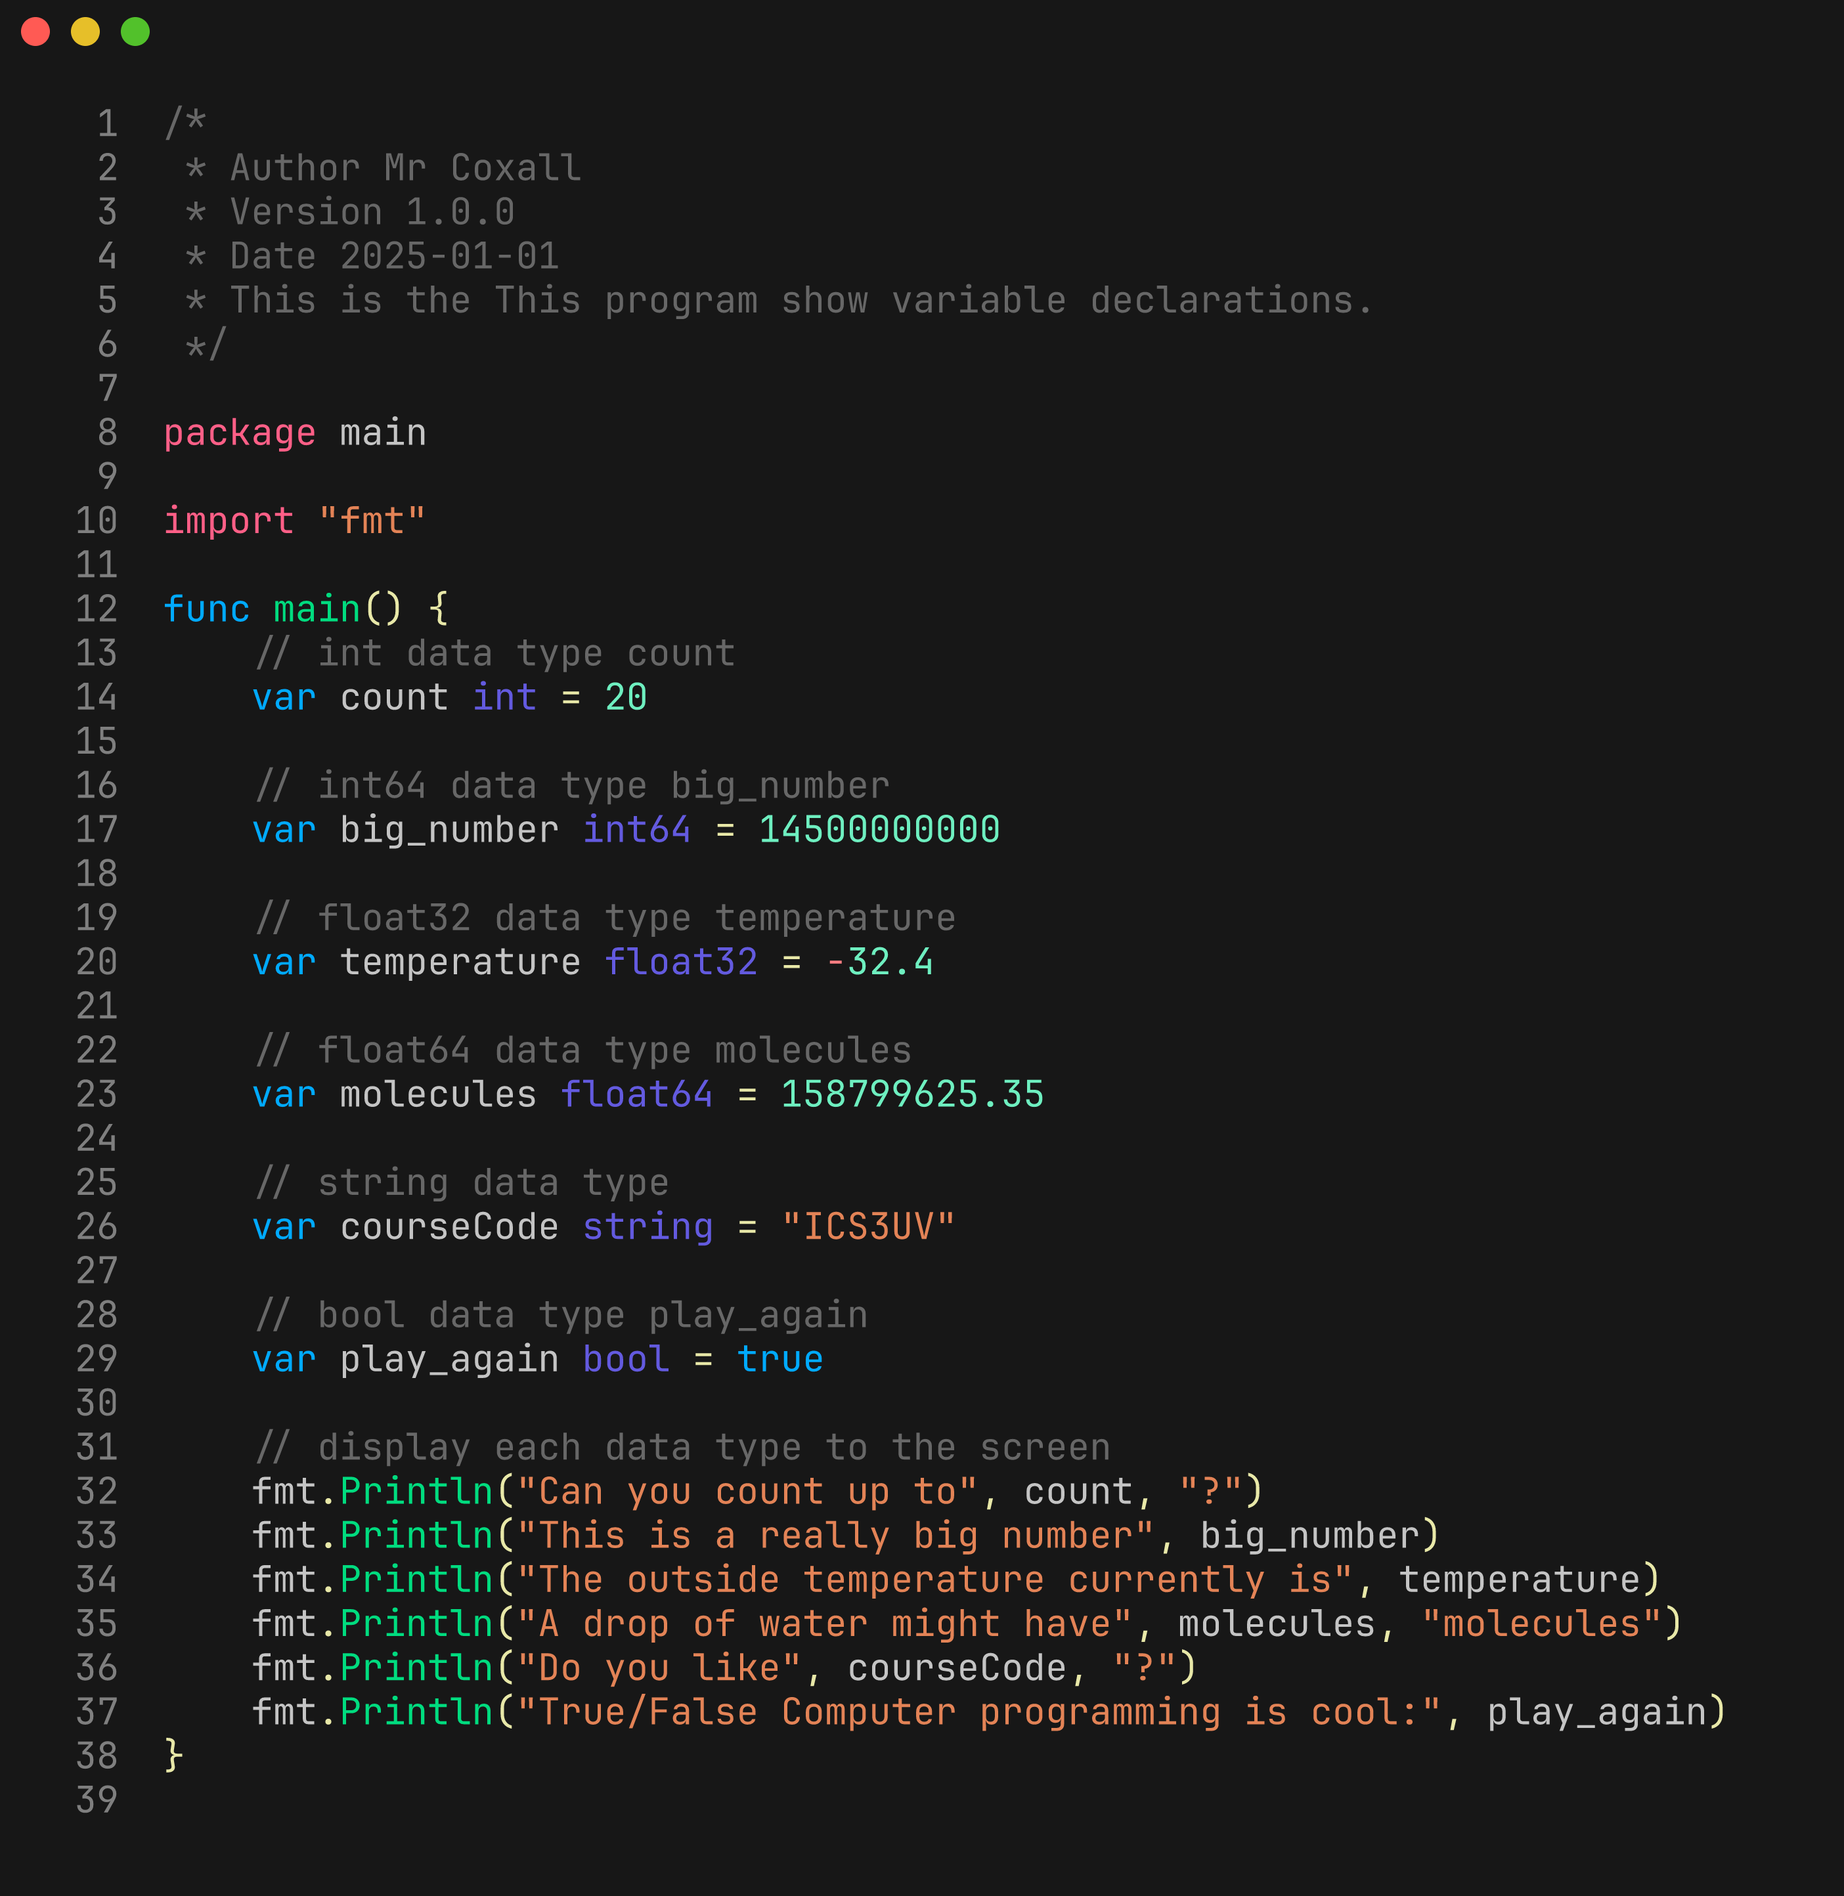
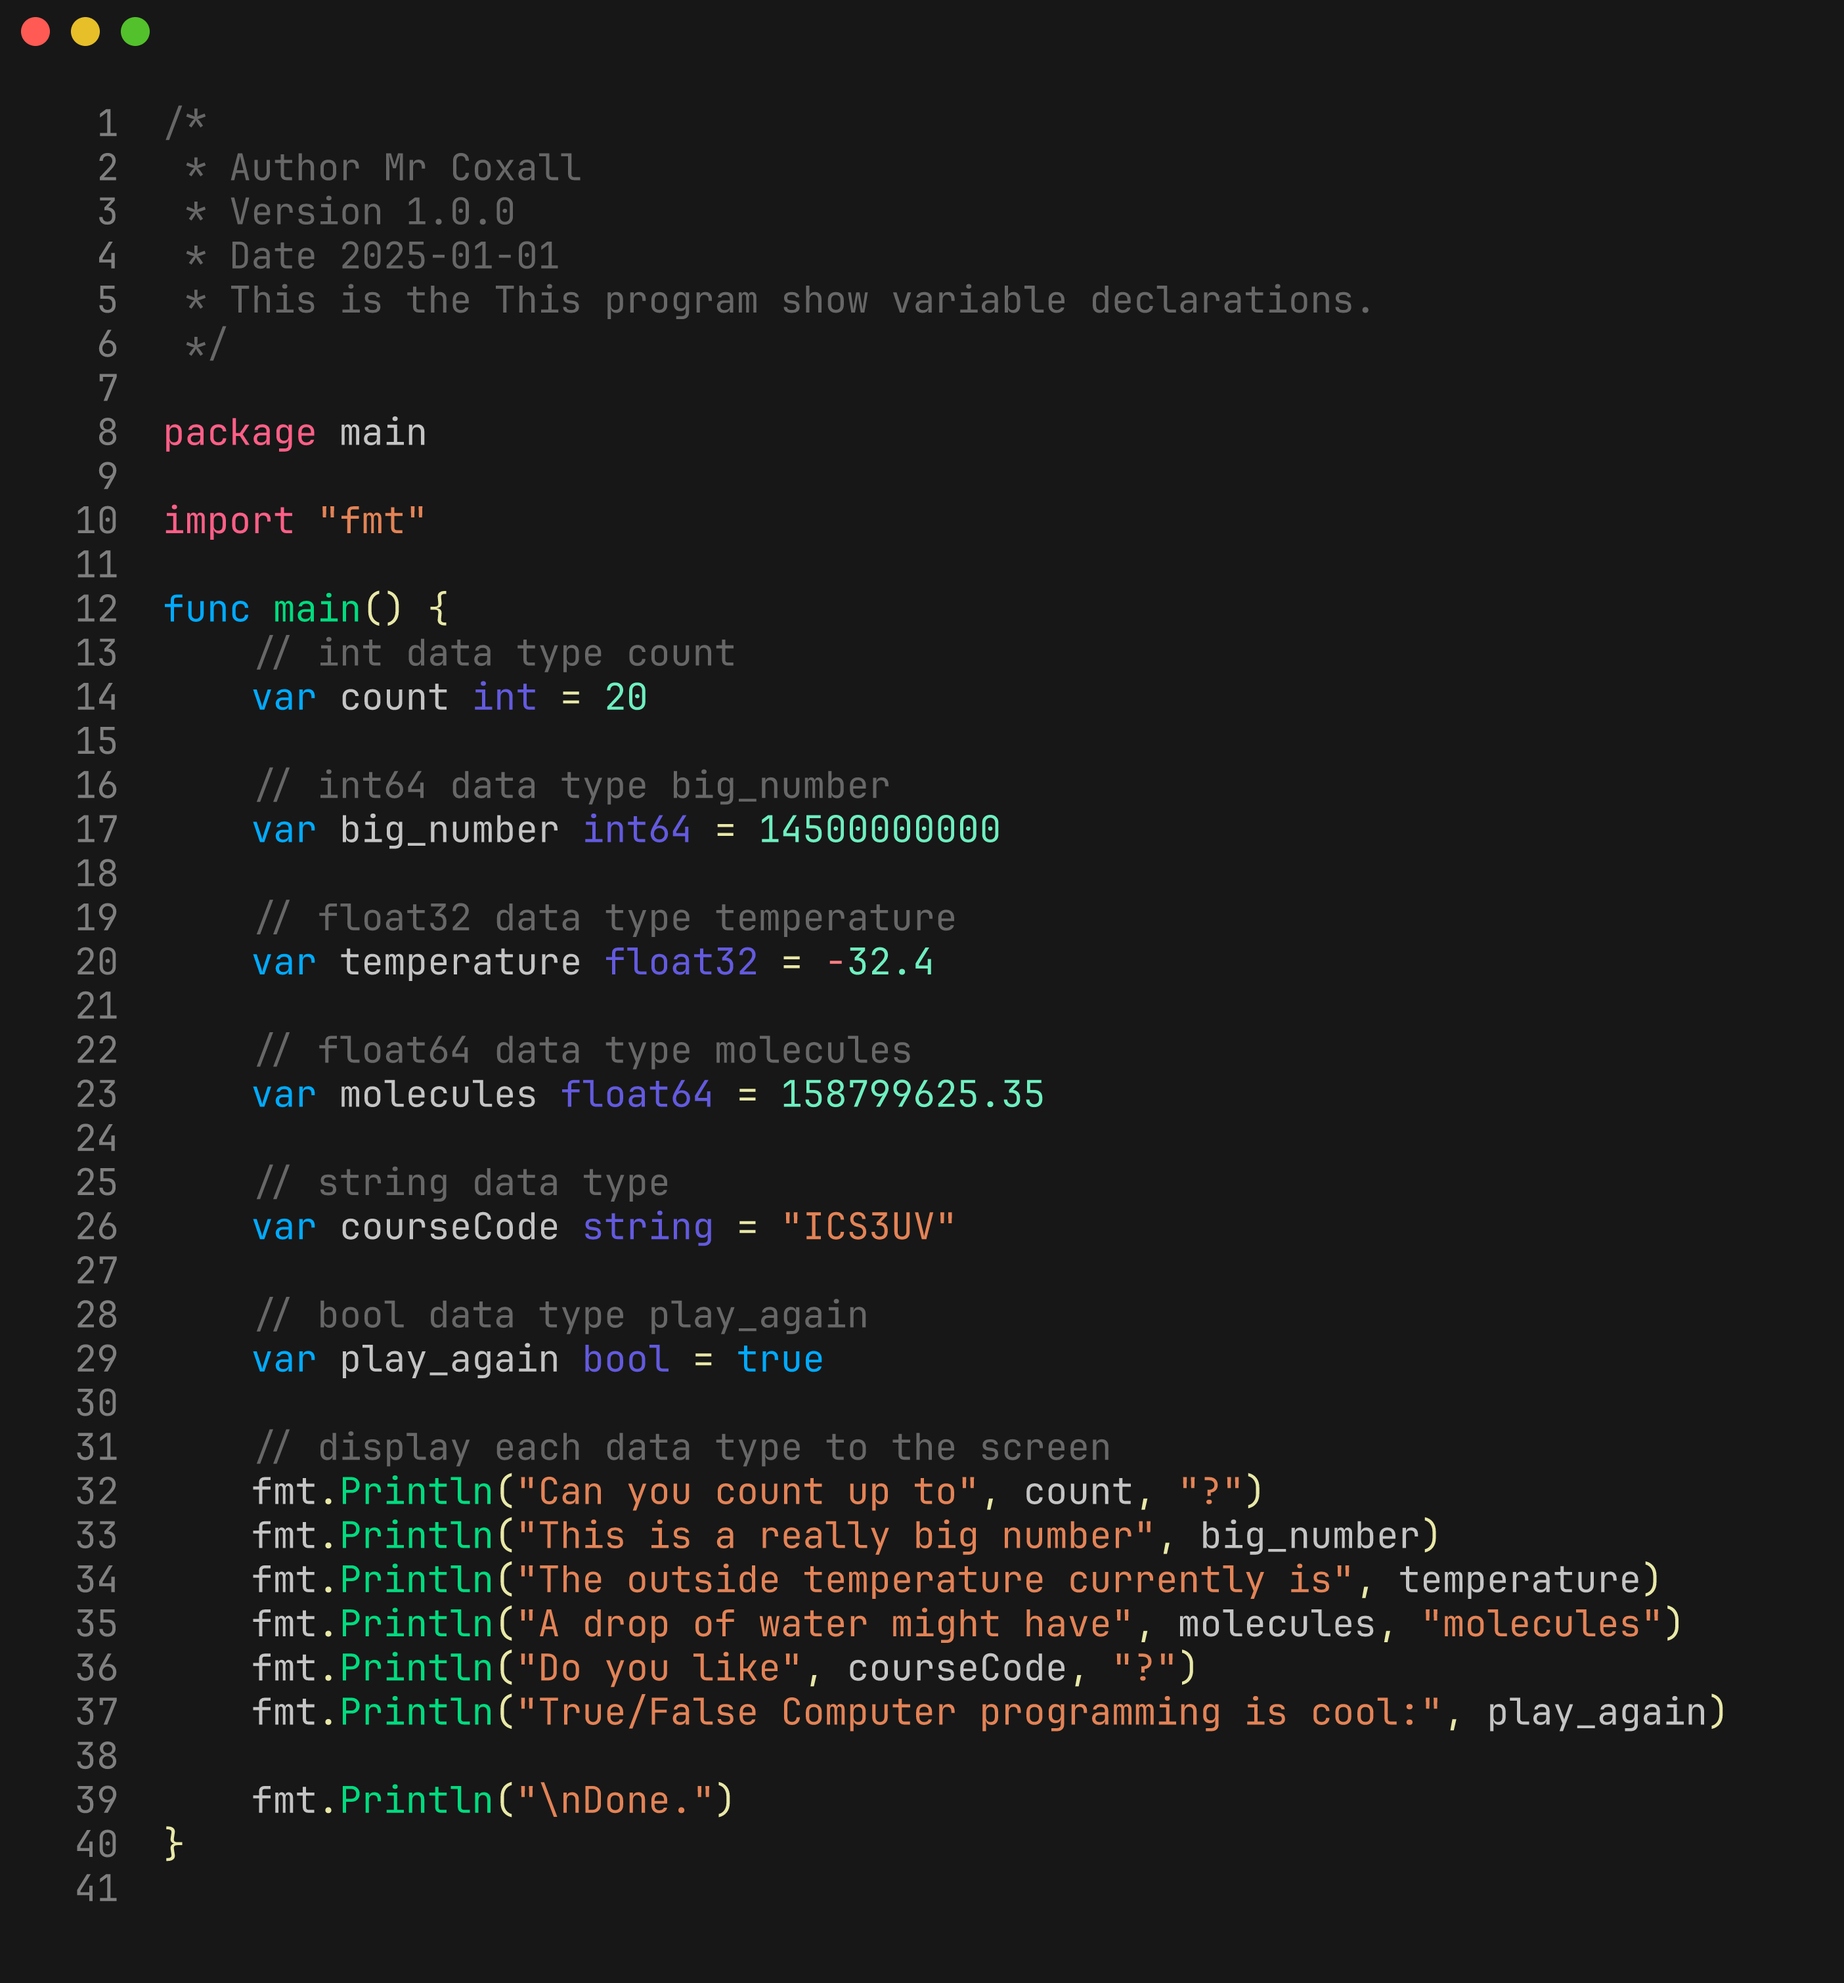
update

diff --git a/main.ts b/main.ts
@@ -31,3 +31,5 @@ console.log("A drop of water might have " + molecules + " molecules");
 console.log("Do you like " + courseCode + "?");
 console.log("True/False Computer programming is cool: " + play_again);
 
+console.log("\nDone.");
+

diff --git a/main.go b/main.go
@@ -35,5 +35,7 @@ func main() {
 	fmt.Println("A drop of water might have", molecules, "molecules")
 	fmt.Println("Do you like", courseCode, "?")
 	fmt.Println("True/False Computer programming is cool:", play_again)
+
+	fmt.Println("\nDone.")
 }
 
